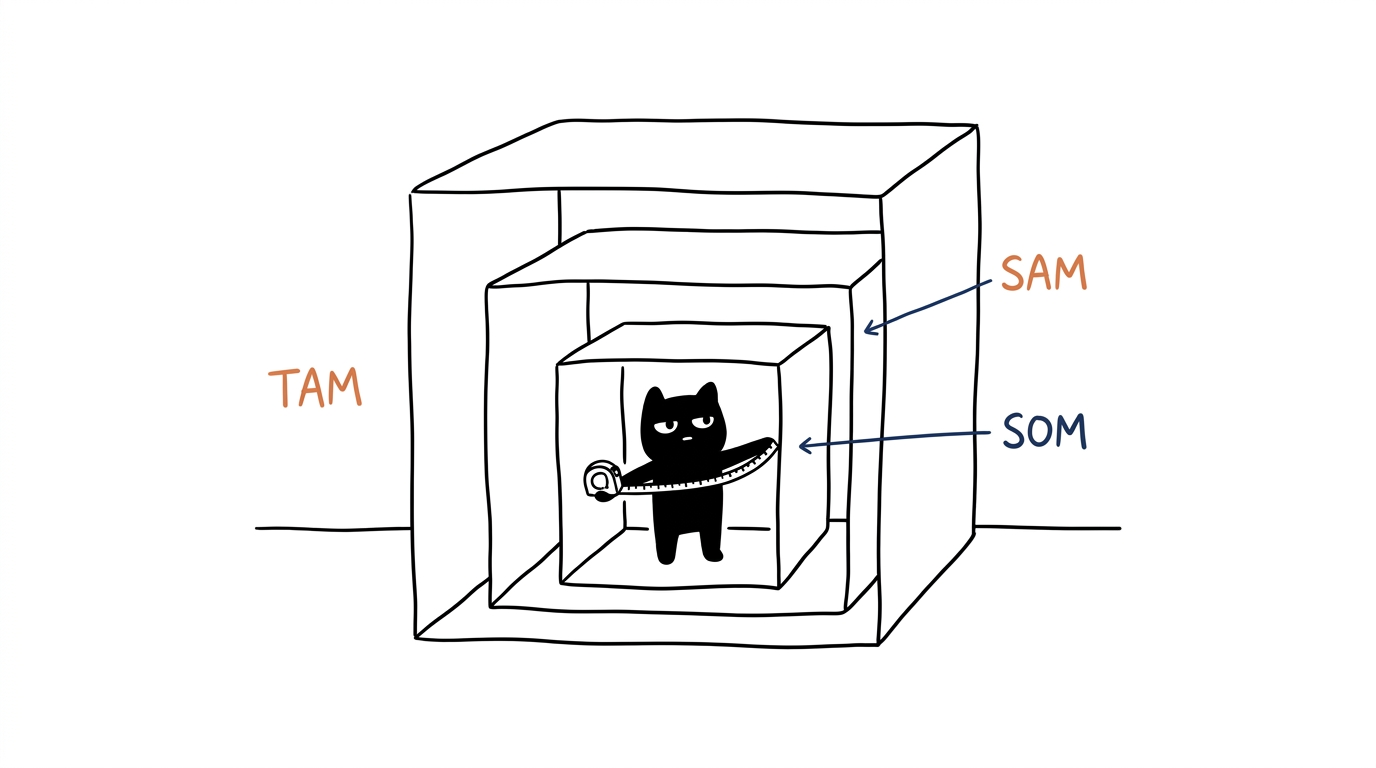
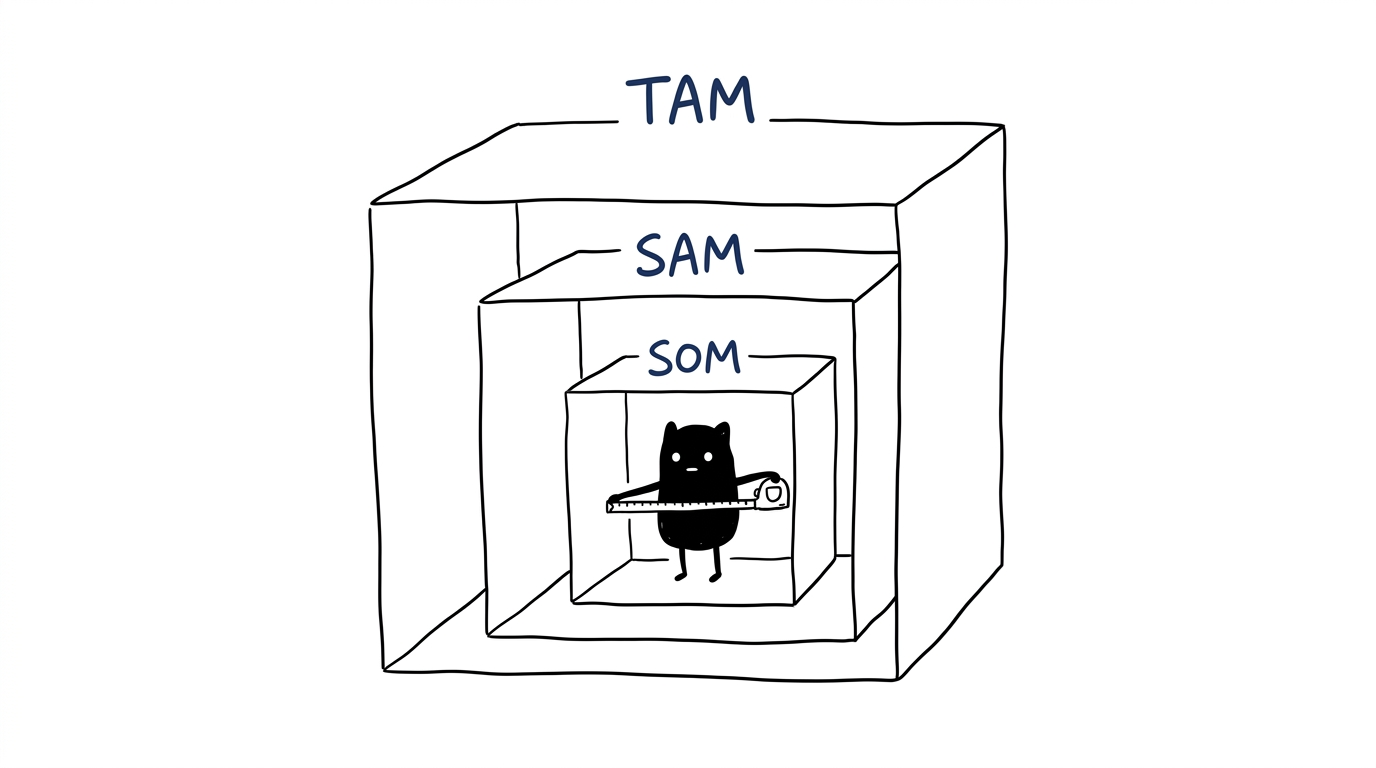
Marketing plan: illustrations baked in as slide columns, navy palette replaces orange

diff --git a/marketing-plan-2026/index.html b/marketing-plan-2026/index.html
@@ -151,16 +151,23 @@ ul.points li span{color:#5B6880;display:block;font-size:.92em;margin-top:4px}
 @media (max-height:920px){.illo img{max-height:38vh}}
 
 
-/* corner illustration on every slide */
-.slide.has-illo .wrap{position:relative}
-figure.corner{position:absolute;top:-4px;right:0;width:190px;margin:0;z-index:2}
-figure.corner img{width:100%;height:auto;display:block}
-.slide.dark figure.corner{background:#fff;padding:7px;border-radius:8px}
-.slide.title-hero .eyebrow,.slide.title-hero h1{max-width:none}
-.slide.has-illo .eyebrow,.slide.has-illo h1,.slide.has-illo h2{max-width:calc(100% - 216px)}
-@media (max-width:1000px){
-  figure.corner{position:static;width:140px;margin:0 0 14px}
-  .slide.has-illo .eyebrow,.slide.has-illo h1,.slide.has-illo h2{max-width:100%}
+
+
+/* illustrations baked into the slide */
+.split{display:grid;grid-template-columns:minmax(0,1.62fr) minmax(0,1fr);gap:46px;align-items:center}
+.split .col-text{min-width:0}
+figure.illo-main{margin:0;align-self:center}
+figure.illo-main img{width:100%;height:auto;max-height:60vh;object-fit:contain;display:block}
+.slide.dark figure.illo-main{background:#fff;padding:12px;border-radius:14px}
+.split table{font-size:clamp(.78rem,1.02vw,.95rem)}
+.split th,.split td{padding-left:9px;padding-right:9px}
+.title-illo{margin-top:24px}
+.title-illo img{max-height:24vh}
+@media (max-width:1050px){
+  .split{grid-template-columns:1fr;gap:22px}
+  figure.illo-main{order:-1}
+  figure.illo-main img{max-height:30vh}
+  .title-illo img{max-height:26vh}
 }
 
 /* appendix */
@@ -193,8 +200,7 @@ figure.corner img{width:100%;height:auto;display:block}
 <!-- 1 -->
 <section class="slide has-illo dark title-hero">
   <div class="wrap">
-    <figure class="corner"><img src="illos/01-title.png" alt="Hand-drawn illustration for this slide"></figure>
-        <div class="title-grid">
+    <div class="title-grid">
       <div>
         <div class="eyebrow">Strategy session &middot; 2 November 2026</div>
         <h1>The marketing plan</h1>
@@ -203,6 +209,7 @@ figure.corner img{width:100%;height:auto;display:block}
       <div class="ask">
         <strong>The ask today</strong>
         <p>Endorse three moves and the direction.<br>Budget and sequencing follow once the direction is agreed.</p>
+        <figure class="illo-main title-illo"><img src="illos/01-title.png" alt="Hand-drawn illustration for this slide"></figure>
       </div>
     </div>
     <div class="meta">aba TRADES &middot; prepared for Paul by Josh and Harley</div>
@@ -212,9 +219,9 @@ figure.corner img{width:100%;height:auto;display:block}
 
 <!-- 2 -->
 <section class="slide has-illo light">
-  <div class="wrap">
-    <figure class="corner"><img src="illos/02-revenue-gp.png" alt="Hand-drawn illustration for this slide"></figure>
-        <div class="eyebrow">Where we stand</div>
+  <div class="wrap split">
+    <div class="col-text">
+    <div class="eyebrow">Where we stand</div>
     <h2>Our biggest brand and our most profitable brand are not the same brand</h2>
     <p class="lede">Trailing twelve months. Revenue says Plumbing. Gross profit says Air Con.</p>
     <table>
@@ -232,14 +239,16 @@ figure.corner img{width:100%;height:auto;display:block}
     </ul>
     <p class="src">Revenue: ServiceTitan report 295, invoiced, trailing 12 months to October 2026. Gross profit: job-level GP on completed jobs using Paul's method (revenue ex GST less labour at actual hours and burden rate, materials, subbies, recalls), trailing 12 months. Materials allocation is not fully audited, so GP is sound on labour and marginally generous on materials. It does not change the ranking.</p>
   </div>
+    <figure class="illo-main"><img src="illos/02-revenue-gp.png" alt="Hand-drawn illustration for this slide"></figure>
+  </div>
   <div class="brandmark">aba TRADES</div><div class="pagenum">02</div>
 </section>
 
 <!-- 3 -->
 <section class="slide has-illo alt">
-  <div class="wrap">
-    <figure class="corner"><img src="illos/03-positioning.png" alt="Hand-drawn illustration for this slide"></figure>
-        <div class="eyebrow">Positioning today</div>
+  <div class="wrap split">
+    <div class="col-text">
+    <div class="eyebrow">Positioning today</div>
     <h2>Five good local trades. Not yet one brand a homeowner chooses by name</h2>
     <p class="lede">Our read from the live sites and the competitor study. To be confirmed by Paul.</p>
     <div class="cols">
@@ -260,14 +269,16 @@ figure.corner img{width:100%;height:auto;display:block}
     </div>
     <p class="src">Source: live per-brand sites and abatrades.com.au (site switcher), reviewed October 2026. Competitive reference: internal competitor study dated December 2024, approximately 21 months old at the time of this session. Treat the competitor detail as indicative.</p>
   </div>
+    <figure class="illo-main"><img src="illos/03-positioning.png" alt="Hand-drawn illustration for this slide"></figure>
+  </div>
   <div class="brandmark">aba TRADES</div><div class="pagenum">03</div>
 </section>
 
 <!-- 4 -->
 <section class="slide has-illo light">
-  <div class="wrap">
-    <figure class="corner"><img src="illos/04-four-ps.png" alt="Hand-drawn illustration for this slide"></figure>
-        <div class="eyebrow">The four Ps as they stand</div>
+  <div class="wrap split">
+    <div class="col-text">
+    <div class="eyebrow">The four Ps as they stand</div>
     <h2>Four Ps, one lever in use</h2>
     <div class="ps">
       <div class="p"><div class="letter">Product</div><h3>Five trades, one promise</h3><p>The only productised offer is membership, Gold and Platinum. Everything else is sold as a job, not as an outcome.</p></div>
@@ -277,14 +288,16 @@ figure.corner img{width:100%;height:auto;display:block}
     </div>
     <p class="src">Paid channel split from the group performance feed: $191,015 spent in the 90 days to 27 October 2026, all Google. Meta, Bing and Axon at zero.</p>
   </div>
+    <figure class="illo-main"><img src="illos/04-four-ps.png" alt="Hand-drawn illustration for this slide"></figure>
+  </div>
   <div class="brandmark">aba TRADES</div><div class="pagenum">04</div>
 </section>
 
 <!-- 5 -->
 <section class="slide has-illo dark">
-  <div class="wrap">
-    <figure class="corner"><img src="illos/05-porter.png" alt="Hand-drawn illustration for this slide"></figure>
-        <div class="eyebrow">Michael Porter</div>
+  <div class="wrap split">
+    <div class="col-text">
+    <div class="eyebrow">Michael Porter</div>
     <div class="quote">If you are not different, you must be <em>cheapest</em>. Cheapest is not the business we want to be in.</div>
     <div class="cols" style="margin-top:44px">
       <div class="card"><div class="mini">Cost leadership</div><h3>Closed to us</h3><p>National franchises buy materials and media at a scale we cannot match. Competing on price means competing on their terms.</p></div>
@@ -292,14 +305,16 @@ figure.corner img{width:100%;height:auto;display:block}
     </div>
     <p class="src" style="margin-top:34px">Michael Porter, Competitive Strategy. Neither generic strategy is currently declared, which is why the market treats us as one of several interchangeable local trades.</p>
   </div>
+    <figure class="illo-main"><img src="illos/05-porter.png" alt="Hand-drawn illustration for this slide"></figure>
+  </div>
   <div class="brandmark">aba TRADES</div><div class="pagenum">05</div>
 </section>
 
 <!-- 6 -->
 <section class="slide has-illo light">
-  <div class="wrap">
-    <figure class="corner"><img src="illos/06-guarantee.png" alt="Hand-drawn illustration for this slide"></figure>
-        <div class="eyebrow">The strategy section &middot; Verne Harnish, Scaling Up</div>
+  <div class="wrap split">
+    <div class="col-text">
+    <div class="eyebrow">The strategy section &middot; Verne Harnish, Scaling Up</div>
     <h2>A brand promise is only a promise if something is at risk</h2>
     <p class="lede">Harnish's second and third strata of strategy: the one promise you make, and the guarantee that proves you mean it. Domino's did not say "fast pizza". It said thirty minutes or it is free.</p>
     <div class="cols three">
@@ -312,14 +327,16 @@ figure.corner img{width:100%;height:auto;display:block}
     </ul>
     <p class="src">Verne Harnish, Scaling Up, 7 Strata of Strategy: brand promise and brand promise guarantee, carried into the One Page Strategic Plan.</p>
   </div>
+    <figure class="illo-main"><img src="illos/06-guarantee.png" alt="Hand-drawn illustration for this slide"></figure>
+  </div>
   <div class="brandmark">aba TRADES</div><div class="pagenum">06</div>
 </section>
 
 <!-- 7 -->
 <section class="slide has-illo dark">
-  <div class="wrap">
-    <figure class="corner"><img src="illos/07-job-profit.png" alt="Hand-drawn illustration for this slide"></figure>
-        <div class="eyebrow">Who we actually make money from</div>
+  <div class="wrap split">
+    <div class="col-text">
+    <div class="eyebrow">Who we actually make money from</div>
     <h2>Ten percent of our jobs earn sixty percent of our gross profit</h2>
     <table>
       <thead><tr><th>Job type</th><th>Jobs</th><th>Gross profit</th><th>GP per job</th><th>GP %</th></tr></thead>
@@ -338,14 +355,16 @@ figure.corner img{width:100%;height:auto;display:block}
     </ul>
     <p class="src">Job-level gross profit on completed jobs, 1 July to 14 October 2026: 2,508 jobs, $3.22m revenue, 97 percent matched to a ServiceTitan job type. Same GP method as slide 2. Membership status is not populated on job records, so member share of these jobs cannot be measured from this data.</p>
   </div>
+    <figure class="illo-main"><img src="illos/07-job-profit.png" alt="Hand-drawn illustration for this slide"></figure>
+  </div>
   <div class="brandmark">aba TRADES</div><div class="pagenum">07</div>
 </section>
 
 <!-- 8 -->
 <section class="slide has-illo light">
-  <div class="wrap">
-    <figure class="corner"><img src="illos/08-door.png" alt="Hand-drawn illustration for this slide"></figure>
-        <div class="eyebrow">Who we need through the door</div>
+  <div class="wrap split">
+    <div class="col-text">
+    <div class="eyebrow">Who we need through the door</div>
     <h2>A homeowner replacing a ducted system they have already given up on</h2>
     <div class="cols">
       <div>
@@ -362,14 +381,16 @@ figure.corner img{width:100%;height:auto;display:block}
     </ul>
     <p class="src">Buyer profile modelled from job-level GP and job notes, 1 July to 14 October 2026, and the 3CX call sample of 21 to 25 September 2026. Source attribution: ServiceTitan job campaign, all 51 ducted installs tagged. Demographics and trigger timing are not yet measured; that is the jobs-to-be-done build awaiting sign-off.</p>
   </div>
+    <figure class="illo-main"><img src="illos/08-door.png" alt="Hand-drawn illustration for this slide"></figure>
+  </div>
   <div class="brandmark">aba TRADES</div><div class="pagenum">08</div>
 </section>
 
 <!-- 9 -->
 <section class="slide has-illo light">
-  <div class="wrap">
-    <figure class="corner"><img src="illos/09-tam.png" alt="Hand-drawn illustration for this slide"></figure>
-        <div class="eyebrow">Market size &middot; how each number is built</div>
+  <div class="wrap split">
+    <div class="col-text">
+    <div class="eyebrow">Market size &middot; how each number is built</div>
     <h2>A $1.09 billion market, a $941 million slice we can serve, and $13 million we can win</h2>
     <div class="tam">
       <div class="tier">
@@ -393,14 +414,16 @@ figure.corner img{width:100%;height:auto;display:block}
     </ul>
     <p class="src">All figures modelled from published penetration rates and replacement cycles, priced at current Adelaide market rates. Order of magnitude, not a forecast. ServiceTitan revenue for the "today" share: $9.26m, trailing 12 months. SOM is a capacity constraint, not a demand constraint: at 1.0 percent of SAM today, the market is not what limits us.</p>
   </div>
+    <figure class="illo-main"><img src="illos/09-tam.png" alt="Hand-drawn illustration for this slide"></figure>
+  </div>
   <div class="brandmark">aba TRADES</div><div class="pagenum">09</div>
 </section>
 
 <!-- 10 -->
 <section class="slide has-illo light">
-  <div class="wrap">
-    <figure class="corner"><img src="illos/10-buyer-bands.png" alt="Hand-drawn illustration for this slide"></figure>
-        <div class="eyebrow">Light, medium and heavy buyers</div>
+  <div class="wrap split">
+    <div class="col-text">
+    <div class="eyebrow">Light, medium and heavy buyers</div>
     <h2>Half our customers buy once. They are worth $315 each.</h2>
     <div class="bands">
       <div class="band">
@@ -431,6 +454,8 @@ figure.corner img{width:100%;height:auto;display:block}
     </ul>
     <p class="src">7,317 paying customers, November 2024 to October 2026, merged across business units. A further 2,730 customer records carried no revenue and are excluded. Band is a count of paid jobs in the window, so "one job" means one job in 24 months.</p>
   </div>
+    <figure class="illo-main"><img src="illos/10-buyer-bands.png" alt="Hand-drawn illustration for this slide"></figure>
+  </div>
   <div class="brandmark">aba TRADES</div><div class="pagenum">10</div>
 </section>
 
@@ -451,9 +476,9 @@ figure.corner img{width:100%;height:auto;display:block}
 
 <!-- 12 -->
 <section class="slide has-illo light">
-  <div class="wrap">
-    <figure class="corner"><img src="illos/12-journey.png" alt="Hand-drawn illustration for this slide"></figure>
-        <div class="eyebrow">The customer journey</div>
+  <div class="wrap split">
+    <div class="col-text">
+    <div class="eyebrow">The customer journey</div>
     <h2>Strong in the middle, absent at both ends</h2>
     <div class="journey5">
       <div class="j5 weak"><div class="n">01</div><h3>Awareness</h3><p>No brand media. We are not in the consideration set until the problem exists.</p><span class="st bad">Absent</span></div>
@@ -468,14 +493,16 @@ figure.corner img{width:100%;height:auto;display:block}
     </ul>
     <p class="src">Sources: ServiceTitan job and campaign attribution July to October 2026; CLV analysis November 2024 to October 2026; unsold estimate and cancellation figures from Paul's Low-Hanging Fruit pack, 22 October 2026.</p>
   </div>
+    <figure class="illo-main"><img src="illos/12-journey.png" alt="Hand-drawn illustration for this slide"></figure>
+  </div>
   <div class="brandmark">aba TRADES</div><div class="pagenum">12</div>
 </section>
 
 <!-- 13 -->
 <section class="slide has-illo alt">
-  <div class="wrap">
-    <figure class="corner"><img src="illos/13-channels.png" alt="Hand-drawn illustration for this slide"></figure>
-        <div class="eyebrow">Growth levers &middot; the channels we can pull</div>
+  <div class="wrap split">
+    <div class="col-text">
+    <div class="eyebrow">Growth levers &middot; the channels we can pull</div>
     <h2>More, better, new, and all of it is a channel decision</h2>
     <div class="cols three">
       <div class="card"><div class="mini">More &middot; scale paid where it still pays</div><h3>Air Con, Roofing, Renovations</h3><p>Marketing efficiency of 5.77 on Air Con, 4.92 on Roofing and 3.24 on Renovations. Fixed costs are already covered, so incremental revenue at these ratios still contributes. Plumbing at 8.92 is the one to hold, not grow.</p></div>
@@ -488,14 +515,16 @@ figure.corner img{width:100%;height:auto;display:block}
     </ul>
     <p class="src">Marketing efficiency ratio = revenue divided by ad spend, 90 days to 27 October 2026. Conversion opportunities from Paul's Low-Hanging Fruit pack, 22 October 2026: 1,113 unsold estimates worth $7,511,071 at middle option.</p>
   </div>
+    <figure class="illo-main"><img src="illos/13-channels.png" alt="Hand-drawn illustration for this slide"></figure>
+  </div>
   <div class="brandmark">aba TRADES</div><div class="pagenum">13</div>
 </section>
 
 <!-- 14 -->
 <section class="slide has-illo light">
-  <div class="wrap">
-    <figure class="corner"><img src="illos/14-always-on.png" alt="Hand-drawn illustration for this slide"></figure>
-        <div class="eyebrow">Always-on versus campaign</div>
+  <div class="wrap split">
+    <div class="col-text">
+    <div class="eyebrow">Always-on versus campaign</div>
     <h2>A system that runs, not spikes that stop</h2>
     <div class="cols">
       <div class="card"><div class="mini">Campaign</div><h3>Borrowed attention</h3><p>Spend goes up, enquiries follow, spend stops, silence. Cost per acquisition rises at every restart because the memory has decayed and the audience has to be bought again. Capacity planning is impossible.</p></div>
@@ -506,14 +535,16 @@ figure.corner img{width:100%;height:auto;display:block}
       <li><strong>Campaigns sit on top of the system.</strong><span>Peak season and offers get a push. They never replace the base.</span></li>
     </ul>
   </div>
+    <figure class="illo-main"><img src="illos/14-always-on.png" alt="Hand-drawn illustration for this slide"></figure>
+  </div>
   <div class="brandmark">aba TRADES</div><div class="pagenum">14</div>
 </section>
 
 <!-- 15 -->
 <section class="slide has-illo dark">
-  <div class="wrap">
-    <figure class="corner"><img src="illos/15-one-door.png" alt="Hand-drawn illustration for this slide"></figure>
-        <div class="eyebrow">Promotion &middot; channel concentration</div>
+  <div class="wrap split">
+    <div class="col-text">
+    <div class="eyebrow">Promotion &middot; channel concentration</div>
     <h2>We pay for one door. It is our best door, and it is the only one.</h2>
     <div class="stats">
       <div class="stat"><div class="k num">$191,015</div><div class="l">paid media, 90 days to 27 October 2026</div></div>
@@ -527,6 +558,8 @@ figure.corner img{width:100%;height:auto;display:block}
       <li><strong>Paid is the smallest door by volume and the best at converting.</strong><span>12.2 percent of calls, booking 28.1 percent. Cutting it would cost more than its share suggests. The answer is a second door, not a smaller first one.</span></li>
     </ul>
     <p class="src">Paid spend from the group performance feed. Marketing and advertising figure from the 2026-27 Strategy Session, Xero, 12 months to 30 September 2026. Booking rate from ServiceTitan telecom, 7,360 inbound calls July to September 2026.</p>
+  </div>
+    <figure class="illo-main"><img src="illos/15-one-door.png" alt="Hand-drawn illustration for this slide"></figure>
   </div>
   <div class="brandmark">aba TRADES</div><div class="pagenum">15</div>
 </section>
@@ -554,9 +587,9 @@ figure.corner img{width:100%;height:auto;display:block}
 
 <!-- 17 -->
 <section class="slide has-illo light">
-  <div class="wrap">
-    <figure class="corner"><img src="illos/17-plan.png" alt="Hand-drawn illustration for this slide"></figure>
-        <div class="eyebrow">Plan on a page</div>
+  <div class="wrap split">
+    <div class="col-text">
+    <div class="eyebrow">Plan on a page</div>
     <h2>Three moves, one decision each</h2>
     <div class="moves">
       <div class="move">
@@ -582,14 +615,16 @@ figure.corner img{width:100%;height:auto;display:block}
       <li><strong>Decisions needed from Paul:</strong> endorse the always-on system; approve the three channel tests in order; approve the replacement proposition and its price architecture.</li>
     </ul>
   </div>
+    <figure class="illo-main"><img src="illos/17-plan.png" alt="Hand-drawn illustration for this slide"></figure>
+  </div>
   <div class="brandmark">aba TRADES</div><div class="pagenum">17</div>
 </section>
 
 <!-- 18 Appendix -->
 <section class="slide has-illo light">
-  <div class="wrap">
-    <figure class="corner"><img src="illos/18-appendix.png" alt="Hand-drawn illustration for this slide"></figure>
-        <div class="eyebrow">Appendix</div>
+  <div class="wrap split">
+    <div class="col-text">
+    <div class="eyebrow">Appendix</div>
     <h2>Sources, windows and the arithmetic</h2>
     <div class="appx">
       <h3>Gross profit definitions in use</h3>
@@ -621,6 +656,8 @@ figure.corner img{width:100%;height:auto;display:block}
       <h3>Framework references</h3>
       <p>Michael Porter, Competitive Strategy. Verne Harnish, Scaling Up, 7 Strata of Strategy. Byron Sharp, How Brands Grow, and the Ehrenberg-Bass Institute. Binet and Field, The Long and the Short of It. Alex Hormozi's value equation informed the guarantee framing. Illustrations use the Ian Xiaohei style system (MIT, credited in the vault).</p>
     </div>
+  </div>
+    <figure class="illo-main"><img src="illos/18-appendix.png" alt="Hand-drawn illustration for this slide"></figure>
   </div>
   <div class="brandmark">aba TRADES</div><div class="pagenum">A1</div>
 </section>
